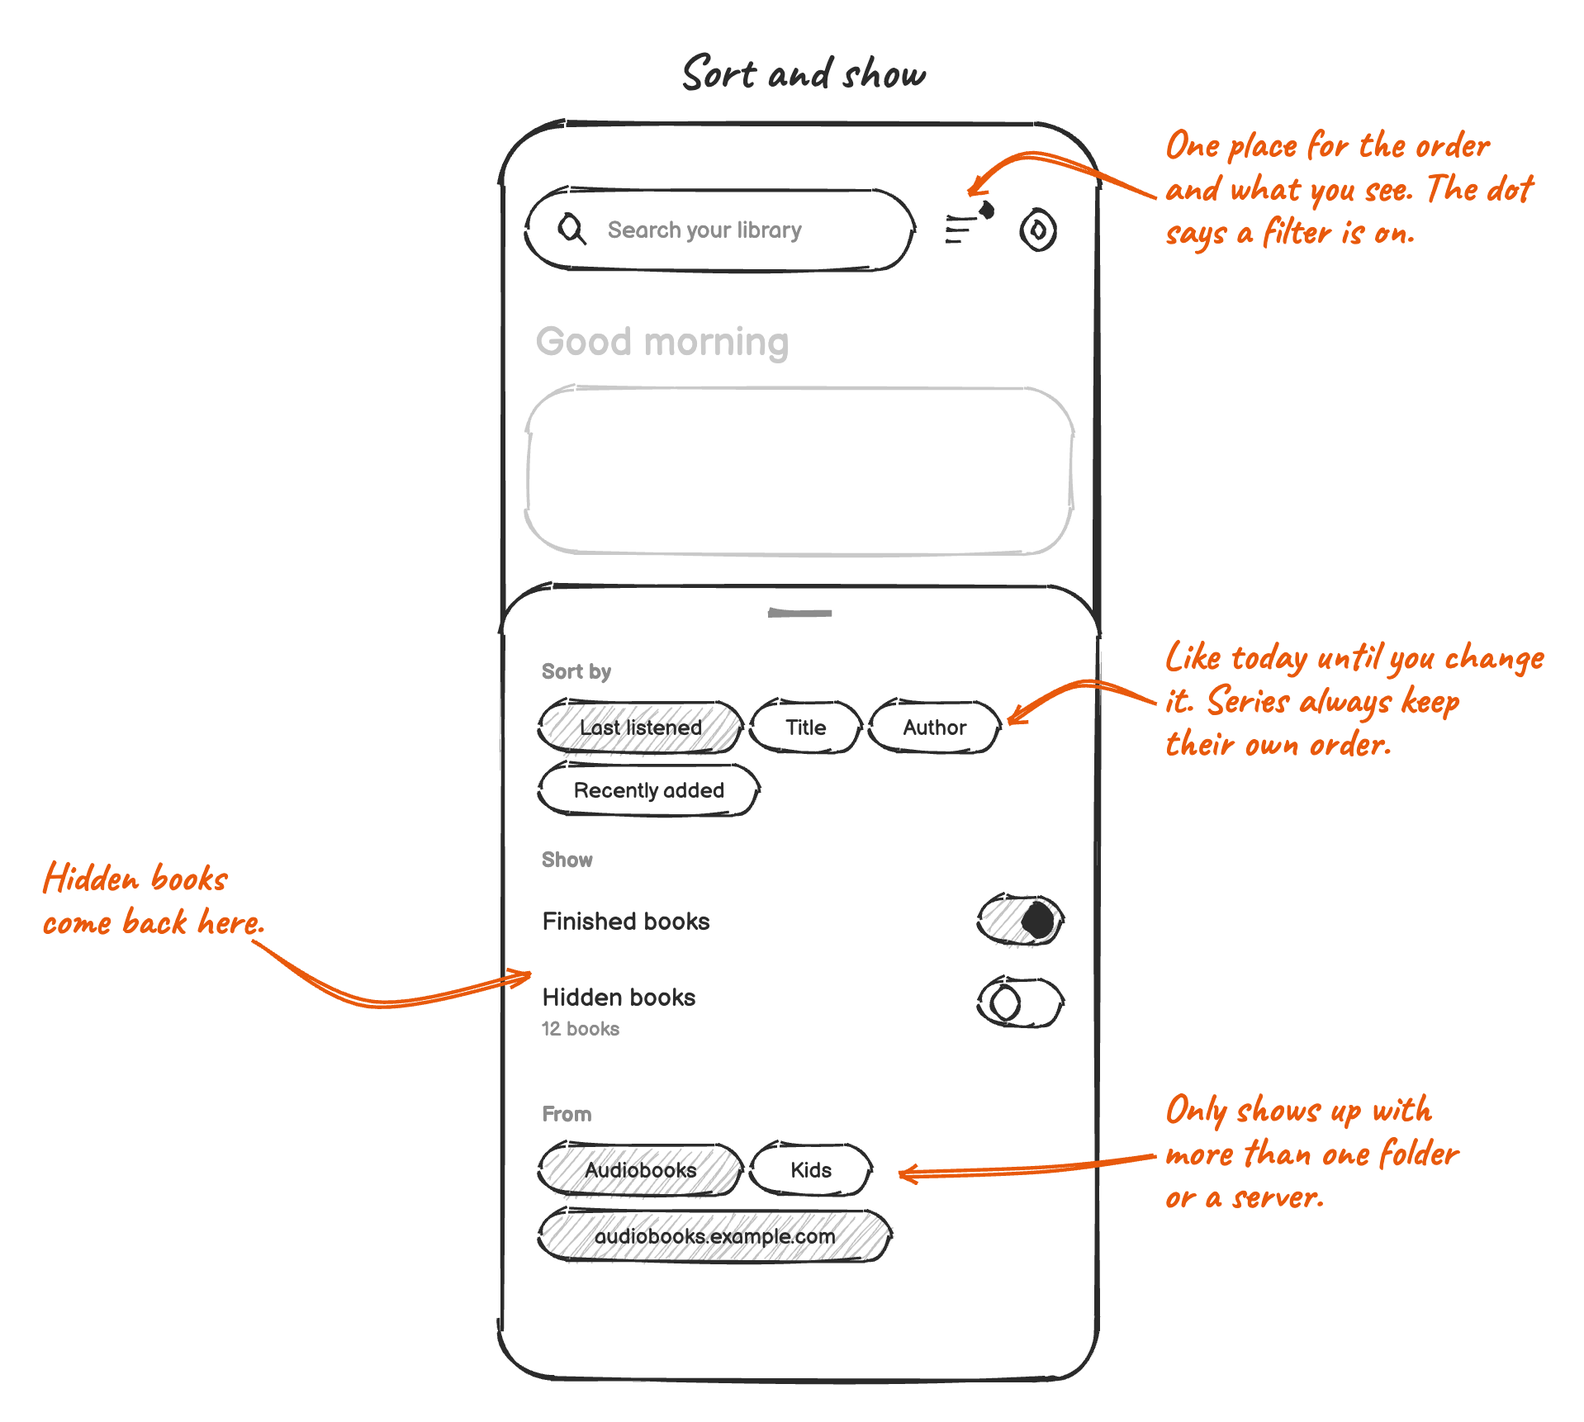
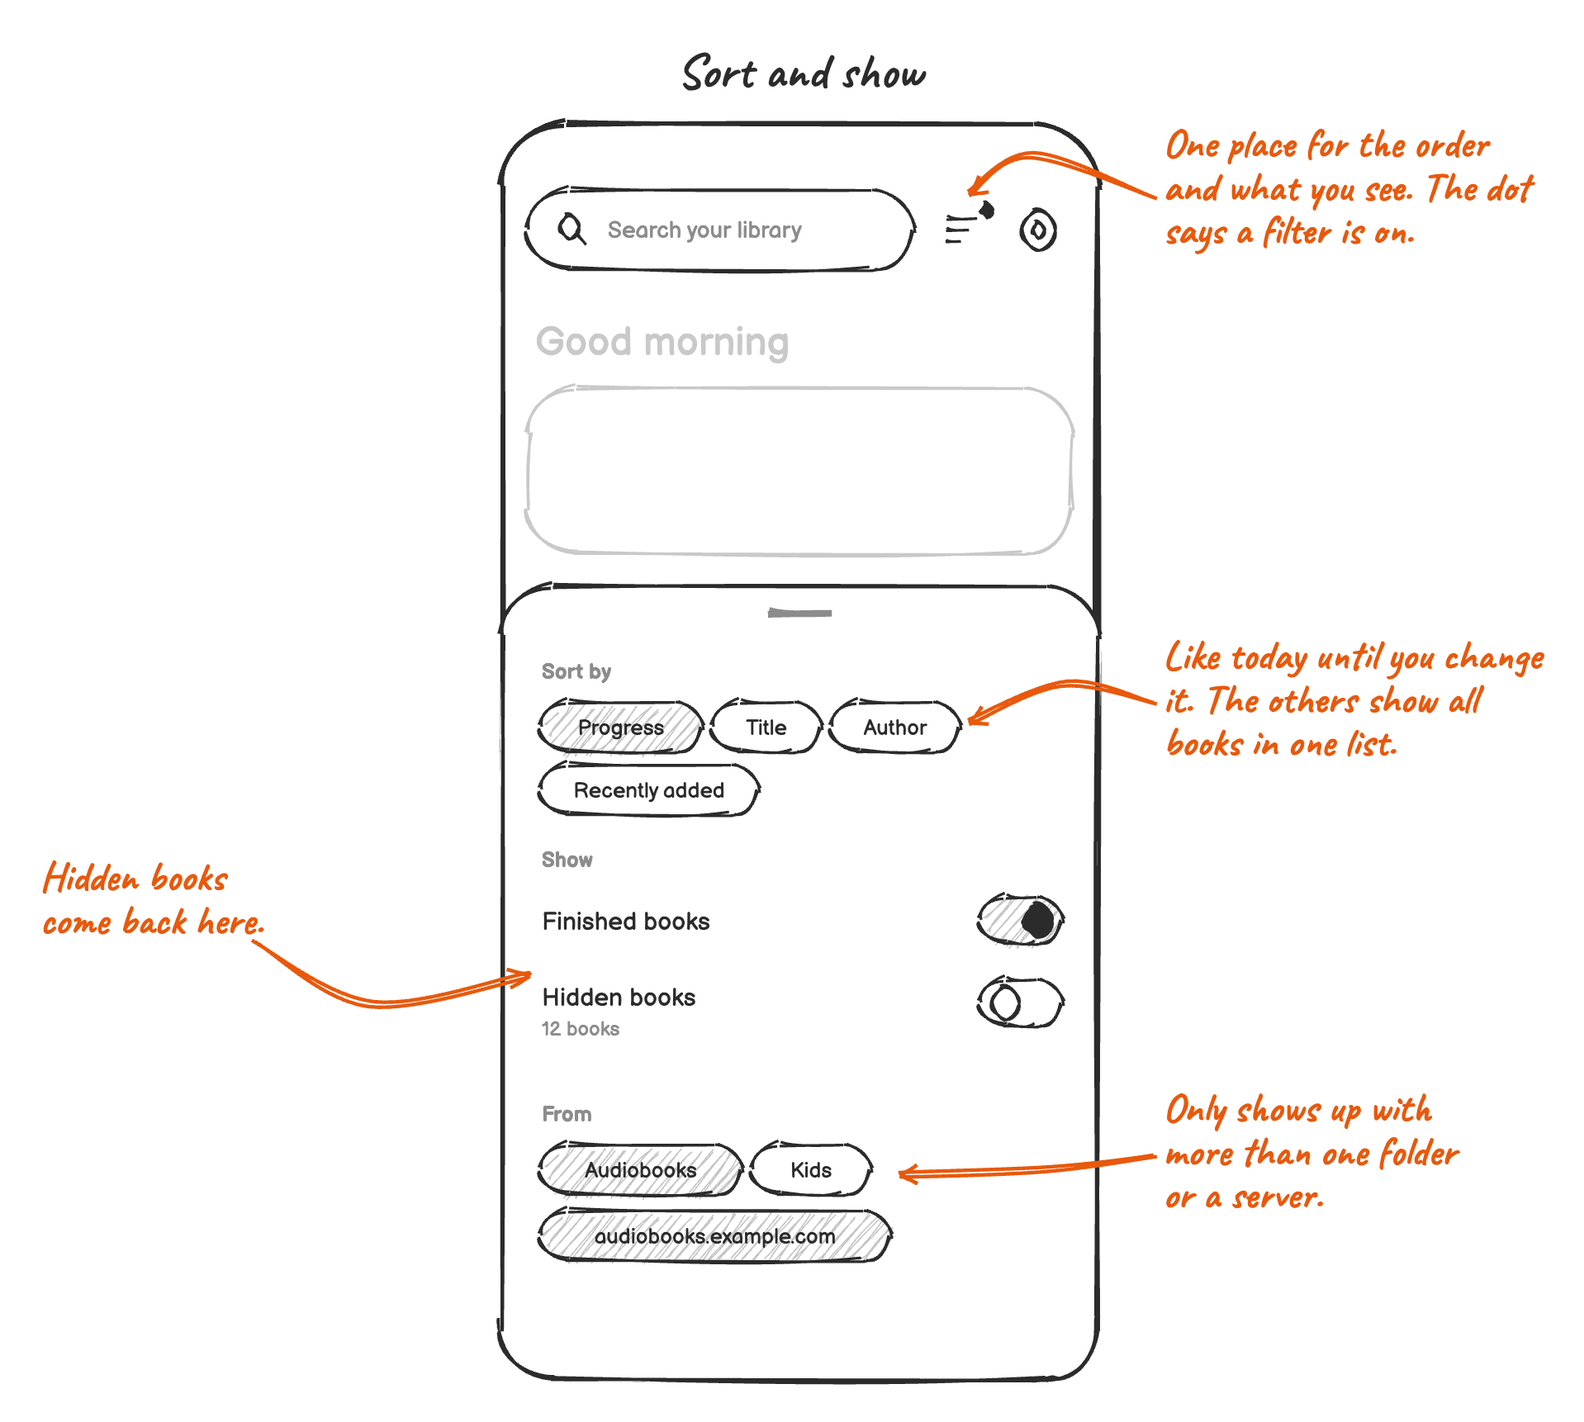
Plan browsing the library by author, title and date added

Changed region(s): [[0.3691, 0.4925, 0.646, 0.554], [0.7383, 0.4617, 0.9228, 0.554], [0.646, 0.4617, 0.7075, 0.4925]]

diff --git a/docs/sketches/library-author-stacks.sketch.js b/docs/sketches/library-author-stacks.sketch.js
@@ -1,0 +1,110 @@
+const WHITE = { fill: '#fff', fillStyle: 'solid' };
+
+function topBar(x, y) {
+  roundRect(x + 16, y + 40, 232, 48, 24);
+  icon.search(x + 42, y + 64);
+  text(x + 64, y + 69, 'Search your library', { size: 14, fill: GREY });
+  const sort = { x: x + 278, y: y + 64 };
+  icon.sort(sort.x, sort.y);
+  circle(x + 324, y + 64, 22);
+  circle(x + 324, y + 64, 8);
+  return sort;
+}
+
+function header(x, y, title, count) {
+  const t = text(x, y, title, { size: 20 });
+  const w = String(count).length * 7 + 18;
+  roundRect(t.x + t.width + 10, y - 17, w, 22, 11, { stroke: GREY });
+  text(t.x + t.width + 10 + w / 2, y - 1, String(count), { size: 12, weight: 700, anchor: 'middle' });
+}
+
+function stack(cx, cy, s, r) {
+  roundRect(cx + s * 0.08, cy, s * 0.92, s * 0.92, r, { stroke: LIGHT, ...WHITE });
+  roundRect(cx + s * 0.04, cy + s * 0.04, s * 0.92, s * 0.92, r, { stroke: GREY, ...WHITE });
+  roundRect(cx, cy + s * 0.08, s * 0.92, s * 0.92, r, WHITE);
+  image(cx, cy + s * 0.08, s * 0.92, s * 0.92, r);
+}
+
+function mosaic(cx, cy, s, r) {
+  const gap = s * 0.05;
+  const c = (s - gap) / 2;
+  for (const [dx, dy] of [[0, 0], [1, 0], [0, 1], [1, 1]]) image(cx + dx * (c + gap), cy + dy * (c + gap), c, c, r / 2);
+}
+
+function badge(bx, by, count) {
+  roundRect(bx, by, 30, 22, 11, { ...WHITE, strokeWidth: 1.4 });
+  text(bx + 15, by + 16, String(count), { size: 12, weight: 700, anchor: 'middle' });
+}
+
+function listRow(x, y, { title, author, progress, caption, kind }) {
+  roundRect(x + 16, y, 328, 84, 18);
+  if (kind === 'series') stack(x + 26, y + 10, 64, 12);
+  else if (kind === 'author') mosaic(x + 26, y + 10, 64, 12);
+  else image(x + 26, y + 10, 64, 64, 12);
+  text(x + 106, y + (author ? 30 : 38), title, { size: 15 });
+  if (author) text(x + 106, y + 48, author, { size: 12, fill: GREY });
+  if (progress) {
+    line(x + 106, y + 66, x + 106 + 118 * progress, y + 66, { strokeWidth: 4 });
+    line(x + 106 + 118 * progress + 4, y + 66, x + 224, y + 66, { stroke: LIGHT, strokeWidth: 4 });
+    text(x + 332, y + 70, caption, { size: 11, fill: GREY, anchor: 'end' });
+  } else {
+    text(x + 106, y + (author ? 70 : 58), caption, { size: 12, fill: GREY });
+  }
+  return y;
+}
+
+function gridTile(cx, top, { title, subtitle, count, kind, progress }) {
+  if (kind === 'series') stack(cx, top, 148, 18);
+  else if (kind === 'author') mosaic(cx, top, 148, 18);
+  else image(cx, top, 148, 148, 18);
+  if (count) badge(cx + 108, top + 118, count);
+  let ty = top + 170;
+  if (progress) {
+    line(cx, top + 160, cx + 148 * progress, top + 160, { strokeWidth: 4 });
+    line(cx + 148 * progress + 4, top + 160, cx + 148, top + 160, { stroke: LIGHT, strokeWidth: 4 });
+    ty += 14;
+  }
+  text(cx, ty, title, { size: 14, weight: 700 });
+  text(cx, ty + 18, subtitle, { size: 12, fill: GREY });
+  return { x: cx, top };
+}
+
+const p = phone(300, 80, 'List, sorted by author');
+const { x, y } = p;
+topBar(x, y);
+
+header(x + 20, y + 130, 'Current', 2);
+listRow(x, y + 144, { title: 'Echoes of Tomorrow', author: 'Daniel Hartwell', progress: 0.72, caption: '4:03:15 left' });
+listRow(x, y + 230, { title: 'Beyond the Horizon', author: 'Alexander Reeves', progress: 0.3, caption: '7:26:05 left' });
+
+header(x + 20, y + 356, 'All books', '1,204');
+const lena = listRow(x, y + 370, { title: 'Lena Morgan', caption: '2 series · 9 books · 3 finished', kind: 'author' });
+const lantern = listRow(x, y + 456, { title: 'The Lantern Keepers', author: 'Mara Quill', progress: 0.2, caption: '1 of 6 finished', kind: 'series' });
+const salt = listRow(x, y + 542, { title: 'Salt and Silence', author: 'Nora Whitfield', caption: 'Completed' });
+listRow(x, y + 628, { title: 'Ruth Calloway', caption: '14 books', kind: 'author' });
+
+note(20, y + 150, ['Current stays on', 'top, in the order', 'you listened.']);
+arrow([[200, y + 230], [250, y + 236], [x + 10, y + 228]]);
+
+note(20, y + 370, ['Below it, the whole', 'library. Every author', 'once, with all their', 'books.']);
+arrow([[200, y + 470], [250, y + 450], [x + 22, lena + 42]]);
+
+note(20, y + 590, ['Just one series', 'or book stays', 'as it is.']);
+arrow([[180, y + 560], [250, y + 520], [x + 22, lantern + 50]]);
+arrow([[200, y + 640], [250, y + 616], [x + 22, salt + 44]]);
+
+const q = phone(780, 80, 'Grid, sorted by author');
+const gx = q.x;
+const sort = topBar(gx, y);
+
+header(gx + 20, y + 136, 'All books', '1,204');
+gridTile(gx + 22, y + 152, { title: 'Lena Morgan', subtitle: '2 series · 9 books', count: 9, kind: 'author' });
+gridTile(gx + 190, y + 152, { title: 'The Lantern Keepers', subtitle: 'Mara Quill', count: 6, kind: 'series', progress: 0.2 });
+gridTile(gx + 22, y + 384, { title: 'Salt and Silence', subtitle: 'Nora Whitfield' });
+const ruth = gridTile(gx + 190, y + 384, { title: 'Ruth Calloway', subtitle: '14 books', count: 14, kind: 'author' });
+
+note(gx + 400, y + 20, ['Only when you', 'sort by author.']);
+arrow([[gx + 396, y + 40], [gx + 340, y + 20], [sort.x + 6, sort.y - 16]]);
+
+note(gx + 400, y + 430, ['A tap opens the', 'author, with all', 'their series and', 'books.']);
+arrow([[gx + 396, y + 460], [gx + 372, y + 450], [ruth.x + 152, ruth.top + 60]]);

diff --git a/docs/sketches/library-recently-added.sketch.js b/docs/sketches/library-recently-added.sketch.js
@@ -1,0 +1,62 @@
+const WHITE = { fill: '#fff', fillStyle: 'solid' };
+
+function header(x, y, title, count) {
+  const t = text(x, y, title, { size: 20 });
+  const w = String(count).length * 7 + 18;
+  roundRect(t.x + t.width + 10, y - 17, w, 22, 11, { stroke: GREY });
+  text(t.x + t.width + 10 + w / 2, y - 1, String(count), { size: 12, weight: 700, anchor: 'middle' });
+}
+
+function stack(cx, cy, s, r) {
+  roundRect(cx + s * 0.08, cy, s * 0.92, s * 0.92, r, { stroke: LIGHT, ...WHITE });
+  roundRect(cx + s * 0.04, cy + s * 0.04, s * 0.92, s * 0.92, r, { stroke: GREY, ...WHITE });
+  roundRect(cx, cy + s * 0.08, s * 0.92, s * 0.92, r, WHITE);
+  image(cx, cy + s * 0.08, s * 0.92, s * 0.92, r);
+}
+
+function listRow(x, y, { title, author, progress, caption, series }) {
+  roundRect(x + 16, y, 328, 84, 18);
+  if (series) stack(x + 26, y + 10, 64, 12);
+  else image(x + 26, y + 10, 64, 64, 12);
+  text(x + 106, y + 30, title, { size: 15 });
+  text(x + 106, y + 48, author, { size: 12, fill: GREY });
+  if (progress) {
+    line(x + 106, y + 66, x + 106 + 118 * progress, y + 66, { strokeWidth: 4 });
+    line(x + 106 + 118 * progress + 4, y + 66, x + 224, y + 66, { stroke: LIGHT, strokeWidth: 4 });
+    text(x + 332, y + 70, caption, { size: 11, fill: GREY, anchor: 'end' });
+  } else {
+    text(x + 106, y + 70, caption, { size: 12, fill: GREY });
+  }
+  return y;
+}
+
+const p = phone(300, 80, 'List, sorted by recently added');
+const { x, y } = p;
+
+roundRect(x + 16, y + 40, 232, 48, 24);
+icon.search(x + 42, y + 64);
+text(x + 64, y + 69, 'Search your library', { size: 14, fill: GREY });
+icon.sort(x + 278, y + 64);
+circle(x + 324, y + 64, 22);
+circle(x + 324, y + 64, 8);
+
+header(x + 20, y + 130, 'Current', 1);
+listRow(x, y + 144, { title: 'Echoes of Tomorrow', author: 'Daniel Hartwell', progress: 0.72, caption: '4:03:15 left' });
+
+header(x + 20, y + 270, 'All books', '1,204');
+const today = label(x + 24, y + 304, 'Today', { bold: true });
+listRow(x, y + 316, { title: 'A Map of Small Hours', author: 'Ines Carver', caption: '8:41:12' });
+const salt = listRow(x, y + 402, { title: 'Salt and Silence', author: 'Nora Whitfield', caption: '11:20:05' });
+
+label(x + 24, y + 524, '12 October', { bold: true });
+const lantern = listRow(x, y + 536, { title: 'The Lantern Keepers', author: 'Mara Quill', caption: '6 books', series: true });
+listRow(x, y + 622, { title: 'Winter Harbor', author: 'Ruth Calloway', caption: '9:58:30' });
+
+note(20, y + 250, ['The day they', 'were added,', 'newest first.']);
+arrow([[160, y + 330], [230, y + 310], [x + 18, y + 300]]);
+
+note(x + 400, y + 330, ['Books of one day by', 'title, so a folder added', 'at once is easy to scan.']);
+arrow([[x + 396, y + 400], [x + 372, y + 420], [x + 350, salt + 40]]);
+
+note(x + 400, y + 560, ['A series is on the', 'day of its newest book.']);
+arrow([[x + 396, y + 590], [x + 372, y + 586], [x + 350, lantern + 40]]);

diff --git a/docs/sketches/library-sort-sheet.sketch.js b/docs/sketches/library-sort-sheet.sketch.js
@@ -21,9 +21,9 @@ roundRect(x, y + 280, 360, 480, 30, { fill: '#fff', fillStyle: 'solid', strokeWi
 line(x + 160, y + 296, x + 200, y + 296, { stroke: GREY, strokeWidth: 4 });
 
 label(x + 24, y + 336, 'Sort by', { bold: true });
-chip(x + 24, y + 350, 120, 'Last listened', { selected: true });
-chip(x + 152, y + 350, 64, 'Title');
-chip(x + 224, y + 350, 76, 'Author');
+chip(x + 24, y + 350, 96, 'Progress', { selected: true });
+chip(x + 128, y + 350, 64, 'Title');
+chip(x + 200, y + 350, 76, 'Author');
 chip(x + 24, y + 388, 130, 'Recently added');
 
 label(x + 24, y + 450, 'Show', { bold: true });
@@ -41,8 +41,8 @@ chip(x + 24, y + 658, 210, 'audiobooks.example.com', { selected: true });
 note(x + 400, y + 20, ['One place for the order', 'and what you see. The dot', 'says a filter is on.']);
 arrow([[x + 396, y + 44], [x + 320, y + 20], [sort.x + 4, sort.y - 22]]);
 
-note(x + 400, y + 330, ['Like today until you change', 'it. Series always keep', 'their own order.']);
-arrow([[x + 396, y + 350], [x + 350, y + 340], [x + 306, y + 362]]);
+note(x + 400, y + 330, ['Like today until you change', 'it. The others show all', 'books in one list.']);
+arrow([[x + 396, y + 350], [x + 340, y + 340], [x + 282, y + 362]]);
 
 note(20, y + 464, ['Hidden books', 'come back here.']);
 arrow([[150, y + 494], [220, y + 534], [hidden.x - 8, hidden.y - 6]]);

diff --git a/docs/library.md b/docs/library.md
@@ -12,6 +12,7 @@ This is a proposal. Once something ships, it moves into the [product spec](produ
 - **Fixing the author or the series means editing the files.** [#1407]
 - **I can't take a book out of my library without deleting its files.** [#3397]
 - **My library is one long list,** with thousands of books from Audiobookshelf, or the kids' books next to mine. [#1214]
+- **With thousands of books, I want to go through them by author,** like in Audiobookshelf. [#3946]
 - **The episodes of a radio play all look the same, and search can't find one by its number.** [#3132]
 - **My author folders don't make authors, and a series folder becomes one long book.** [#3162]
 
@@ -23,6 +24,7 @@ This is a proposal. Once something ships, it moves into the [product spec](produ
 [#3162]: https://github.com/PaulWoitaschek/Voice/discussions/3162
 [#3235]: https://github.com/PaulWoitaschek/Voice/discussions/3235
 [#3397]: https://github.com/PaulWoitaschek/Voice/discussions/3397
+[#3946]: https://github.com/PaulWoitaschek/Voice/discussions/3946
 
 ## What Voice knows today
 
@@ -40,8 +42,9 @@ This is a proposal. Once something ships, it moves into the [product spec](produ
 - Current and Completed are in the order they were last listened, Not started yet by title. There's no sorting,
   filtering or hiding.
 
-**So: group by series, not by author.** A series is short and ordered by its parts. Authors are messy, most of them
-have a single book, and a group per author makes the list longer, not shorter. Authors get their own screen instead.
+**So: group by series, and by author only when sorted by author.** A series is short and ordered by its parts. Authors
+are messy and most of them have a single book, so they only group when the listener asks for them. Libraries with
+thousands of books mostly come from Audiobookshelf, where the authors are clean and have many books each.
 
 **But most series aren't in the tags.** They're in the album or in the folders, so Voice reads them from there, and
 fixing many books at once has to take a few taps.
@@ -52,7 +55,7 @@ fixing many books at once has to take a few taps.
 - It stays quick with 5,000 books and a series of 200 episodes.
 - No book gets lost. Search always finds grouped and hidden books.
 - Edits never touch the files or the server.
-- Grouping series needs no setting.
+- Grouping needs no setting.
 
 ## 1. Series in the library
 
@@ -67,6 +70,7 @@ fixing many books at once has to take a few taps.
   series don't show in the library. Two books of one series in progress are both in Current.
 - A series with no book in progress is a stack: in Not started yet before its first book, in Current between two
   books, and in Completed after its last.
+- That's with Progress. The other orders show every series as one stack in All books, see Sorting and filtering.
 - A tap on a stack opens the series. A long press renames or hides it.
 
 ## 2. The series
@@ -90,7 +94,8 @@ fixing many books at once has to take a few taps.
   the spelling most of their books have. Series names match the same way.
 - More options rename the author for all their books. Picking a suggested name joins the two, like ten books of
   "Rowling, J. K." and ten of "J. K. Rowling".
-- Opens from a book's author in the player, the book actions and the series, and from search.
+- Opens from an author's stack in the library, a book's author in the player, the book actions and the series, and
+  from search.
 
 ## 4. Where series and authors come from
 
@@ -149,17 +154,42 @@ For books already in the library:
 
 ![Sketch: the sort and show sheet](sketches/library-sort-sheet.png)
 
-- **Sort by:** Last listened, Title, Author, Recently added. Last listened is the default and what the library does
-  today. The order applies to Not started yet and Completed, and Current stays in the order it was listened in.
-  Author sorts by author, then by the title or the series' name. Books added before Voice kept the date come last in
-  Recently added.
-- A stack sorts by its last listened book, the series' name, its author or its newest book. Inside a stack, the order
-  of the series always holds.
-- **Show:** finished books, hidden books.
+- **Sort by:** Progress, Title, Author, Recently added.
+- Current is always on top, in the order it was listened in, so the books in progress are one tap away in every order.
+- **Progress** is the default and the library of today: below Current come Not started yet by title and Completed
+  by last listened. A series there sorts by its name or by its last listened book.
+- **Title, Author and Recently added** show the whole library below Current, in one list called All books. Every
+  book is in it once, also the ones in progress and the finished ones, and two or more books of a series are one
+  stack. One order is easier to follow than one per section.
+- Title sorts books by their title and series by their name. Author sorts by author and stacks their books, see
+  below. Recently added puts the day above the books added on it, newest first.
+- Inside a stack, the order of the series always holds.
+- **Show:** finished books, hidden books. Without finished books, Completed is gone, and finished books leave All
+  books and the stacks.
 - **From:** one chip per audiobook folder and Audiobookshelf library, only with more than one.
 - A dot on the button says a filter is on: finished books are off, or a folder is. Hidden books don't count, because
   they're hidden on purpose.
 - Filtering by author, narrator or genre stays in search.
+
+### Sorted by author
+
+![Sketch: authors as stacks when the library is sorted by author](sketches/library-author-stacks.png)
+
+- Two or more series or books of an author are one stack in All books, with all their books: in progress, finished
+  and not started. An author with just one series or book shows it as it is.
+- The stack has the author's name, how many series and books are in it and how many are finished, and four of their
+  covers side by side, so it doesn't look like a series. The grid counts the books in a badge, like on a series.
+- A tap opens the author, a long press renames them.
+- Authors are in the order of their names, then the books with no author.
+
+### Sorted by recently added
+
+![Sketch: the books of each day, when the library is sorted by recently added](sketches/library-recently-added.png)
+
+- The day stands above the books added on it, like Today, Yesterday or 12 October, newest day first.
+- The books of one day sort by title, because a folder added at once would otherwise be in the order of the scan.
+- A series is on the day of its newest book, and sorts by its name.
+- Books added before Voice kept the date come last, under Earlier.
 
 ## 6. Hiding books
 
@@ -308,8 +338,6 @@ What goes:
 
 ## Won't solve
 
-- **Author groups in the library:** tags are too messy for it, and most authors have a single book. The author screen
-  shows an author's books in one place.
 - **Writing tags into the files:** it could break files, and synced folders would change on every device.
 - **Putting books in any order by hand:** sorting and the order of a series cover what listeners describe.
 - **Sorting the whole library by file name** ([#3235]): books in a series already follow their file names, and editing
@@ -325,8 +353,9 @@ What goes:
 - Until every device has the update, a split series folder and the long book it was don't sync their places.
 - Two series with the same name from different authors become one, and a book in several series only shows in the
   first one.
-- An author tag with several names gets one author screen for all of them. Names in another order, like
+- An author tag with several names gets one author screen and one stack for all of them. Names in another order, like
   "Rowling, J. K.", are joined by one rename.
+- Authors sort by their name as it's written, so "Stephen King" comes under S, not K.
 - Folders only become series with "Folders are authors", or with "Voice finds the books".
 - Search doesn't look through chapter names or file names.
 - Splits and joins stay on the device and don't sync through `.voice`.
@@ -347,12 +376,13 @@ Each step helps on its own.
 8. The author screen.
 9. Authors and series in search, Browse opening their screen, and numbers in search.
 10. Hiding books.
-11. The sort sheet.
-12. Selecting several books.
-13. Android Auto using the library search.
-14. "Voice finds the books", as an A/B test with new listeners. It needs the series stacks from step 5 to show what it
+11. The sort sheet, with All books for the orders other than Progress.
+12. Author stacks when sorted by author. They open the author screen from step 8.
+13. Selecting several books.
+14. Android Auto using the library search.
+15. "Voice finds the books", as an A/B test with new listeners. It needs the series stacks from step 5 to show what it
     found.
-15. If the test works, replacing the layouts for everyone.
+16. If the test works, replacing the layouts for everyone.
 
 ## Open questions
 
@@ -360,3 +390,4 @@ Each step helps on its own.
 - Are folders enough as shelves ([#1214]), or do listeners need shelves they make in Voice?
 - Should step 7 go, since replacing the layouts splits series folders anyway, and no library changes before the test?
 - When the layouts are replaced: should folders that look like several books be split, or keep their books with a join?
+- Do listeners with thousands of books need a fast scroller with letters, when sorted by title or author?

diff --git a/docs/product.md b/docs/product.md
@@ -82,7 +82,8 @@ Listeners find the book they want in seconds and see how far along they are in e
 
 - **The books of a series aren't grouped or in order.** A series becomes one stack, its books are in order, and Voice
   offers the next one when a book ends. [#1748]
-- **I can't put my books in the order I want.** Sort by last listened, title, author or recently added. [#1543]
+- **I can't put my books in the order I want.** Sort by progress, title, author or recently added. [#1543]
+- **With thousands of books, I can't go through them by author.** Sorted by author, each author is one stack. [#3946]
 - **Fixing the author means editing the files.** Edit the title, author, series and part in Voice. [#1407]
 - **Removing a book from the library deletes its files.** Hide a book or a series and keep its files. [#3397]
 - **The episodes of a radio play all have the album's name.** Each episode keeps its own title, the album becomes the
@@ -102,6 +103,7 @@ Listeners find the book they want in seconds and see how far along they are in e
 [#2826]: https://github.com/PaulWoitaschek/Voice/discussions/2826
 [#2856]: https://github.com/PaulWoitaschek/Voice/discussions/2856
 [#3397]: https://github.com/PaulWoitaschek/Voice/discussions/3397
+[#3946]: https://github.com/PaulWoitaschek/Voice/discussions/3946
 
 ## Player
 
